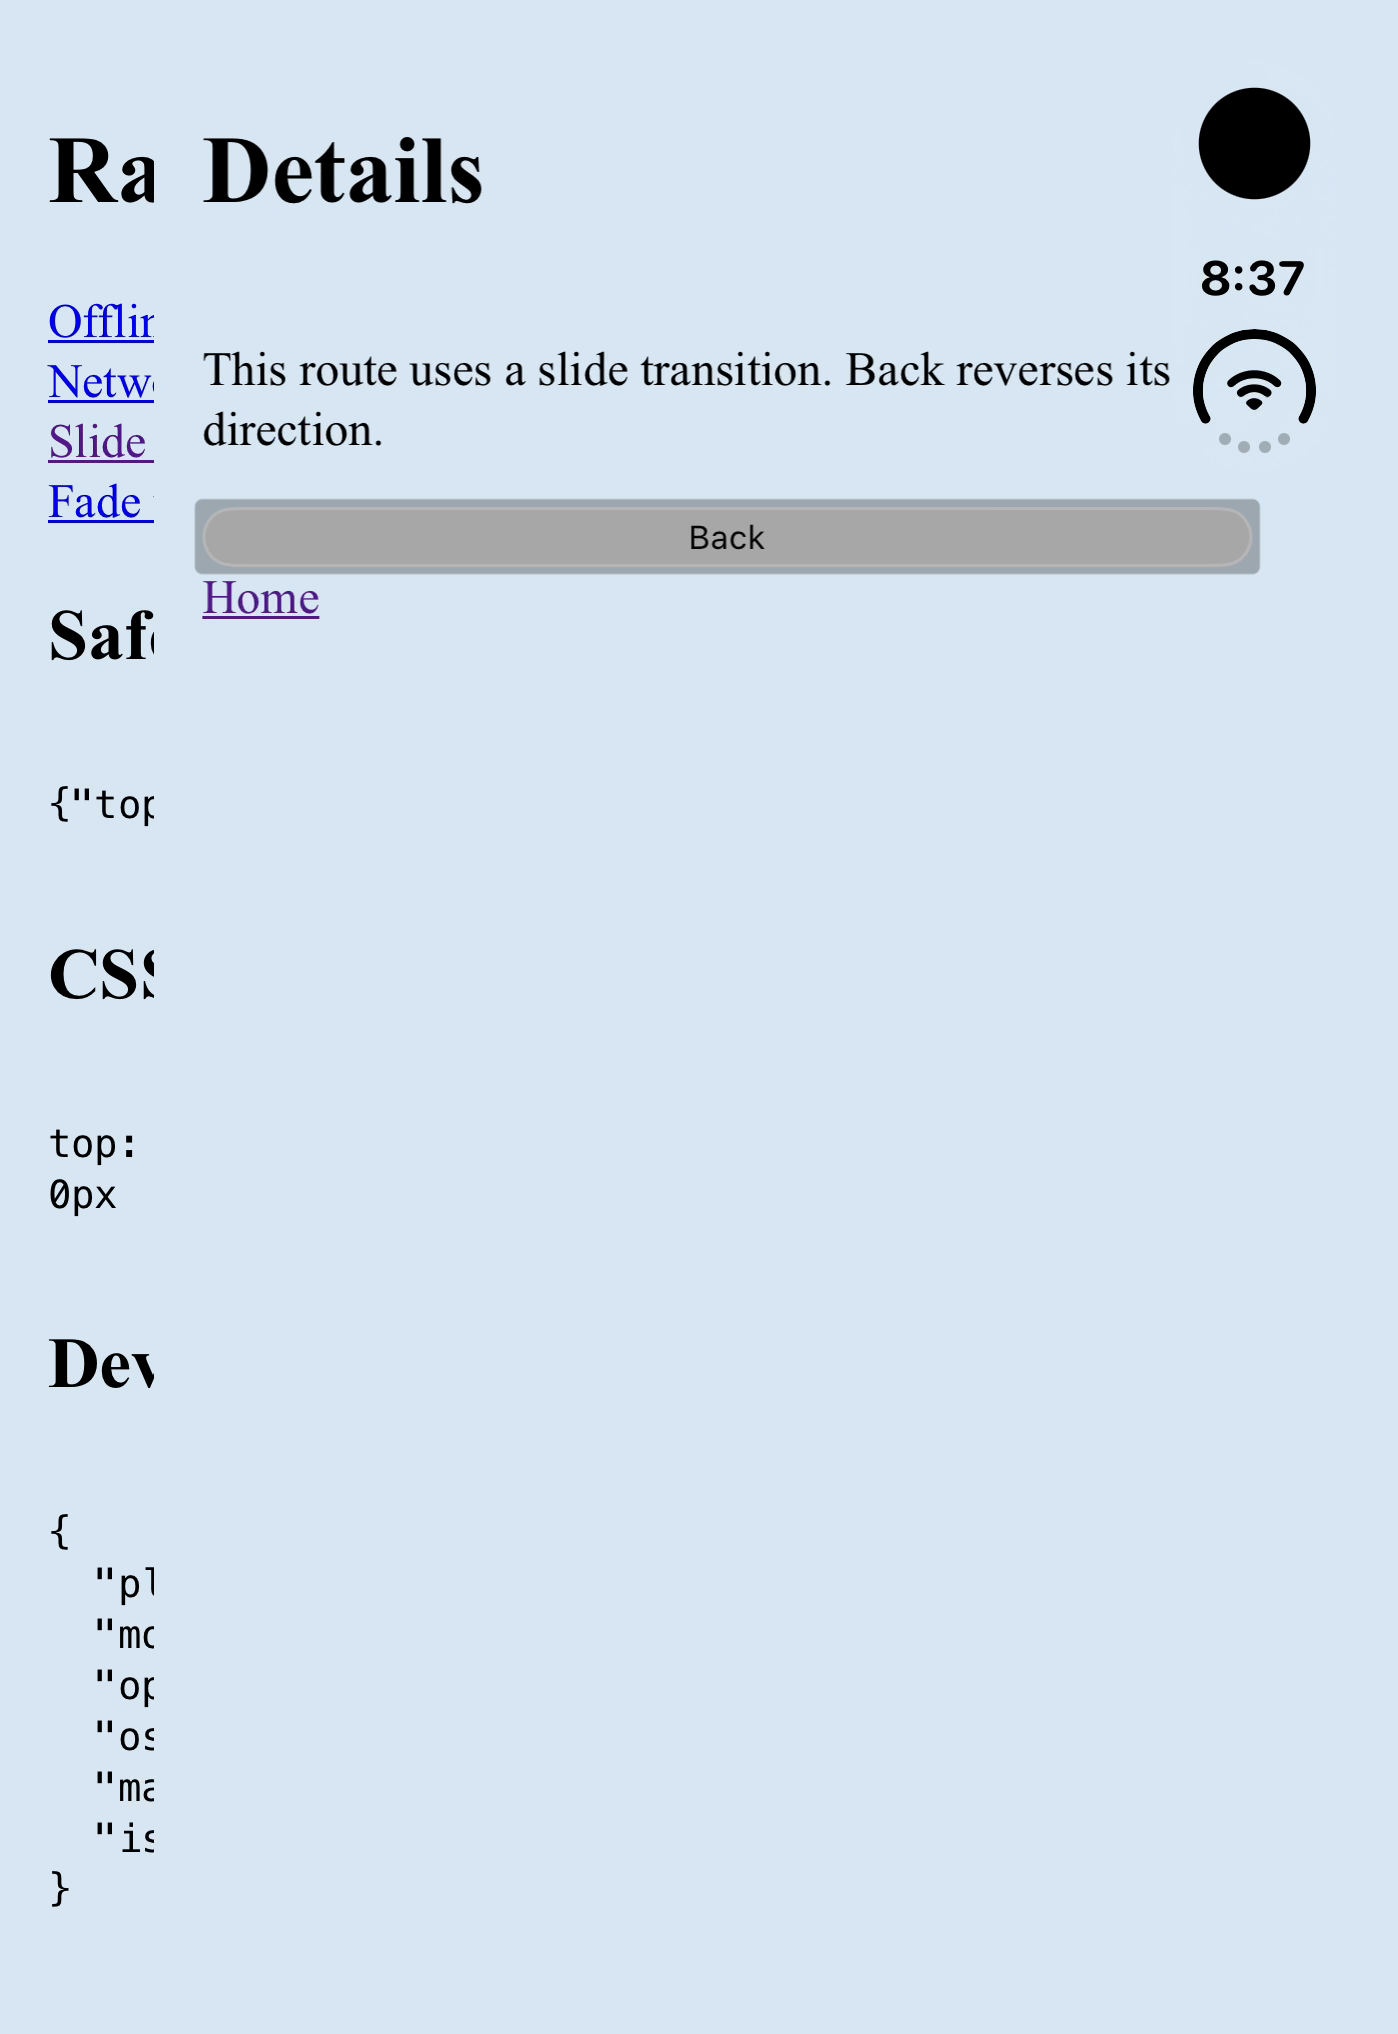
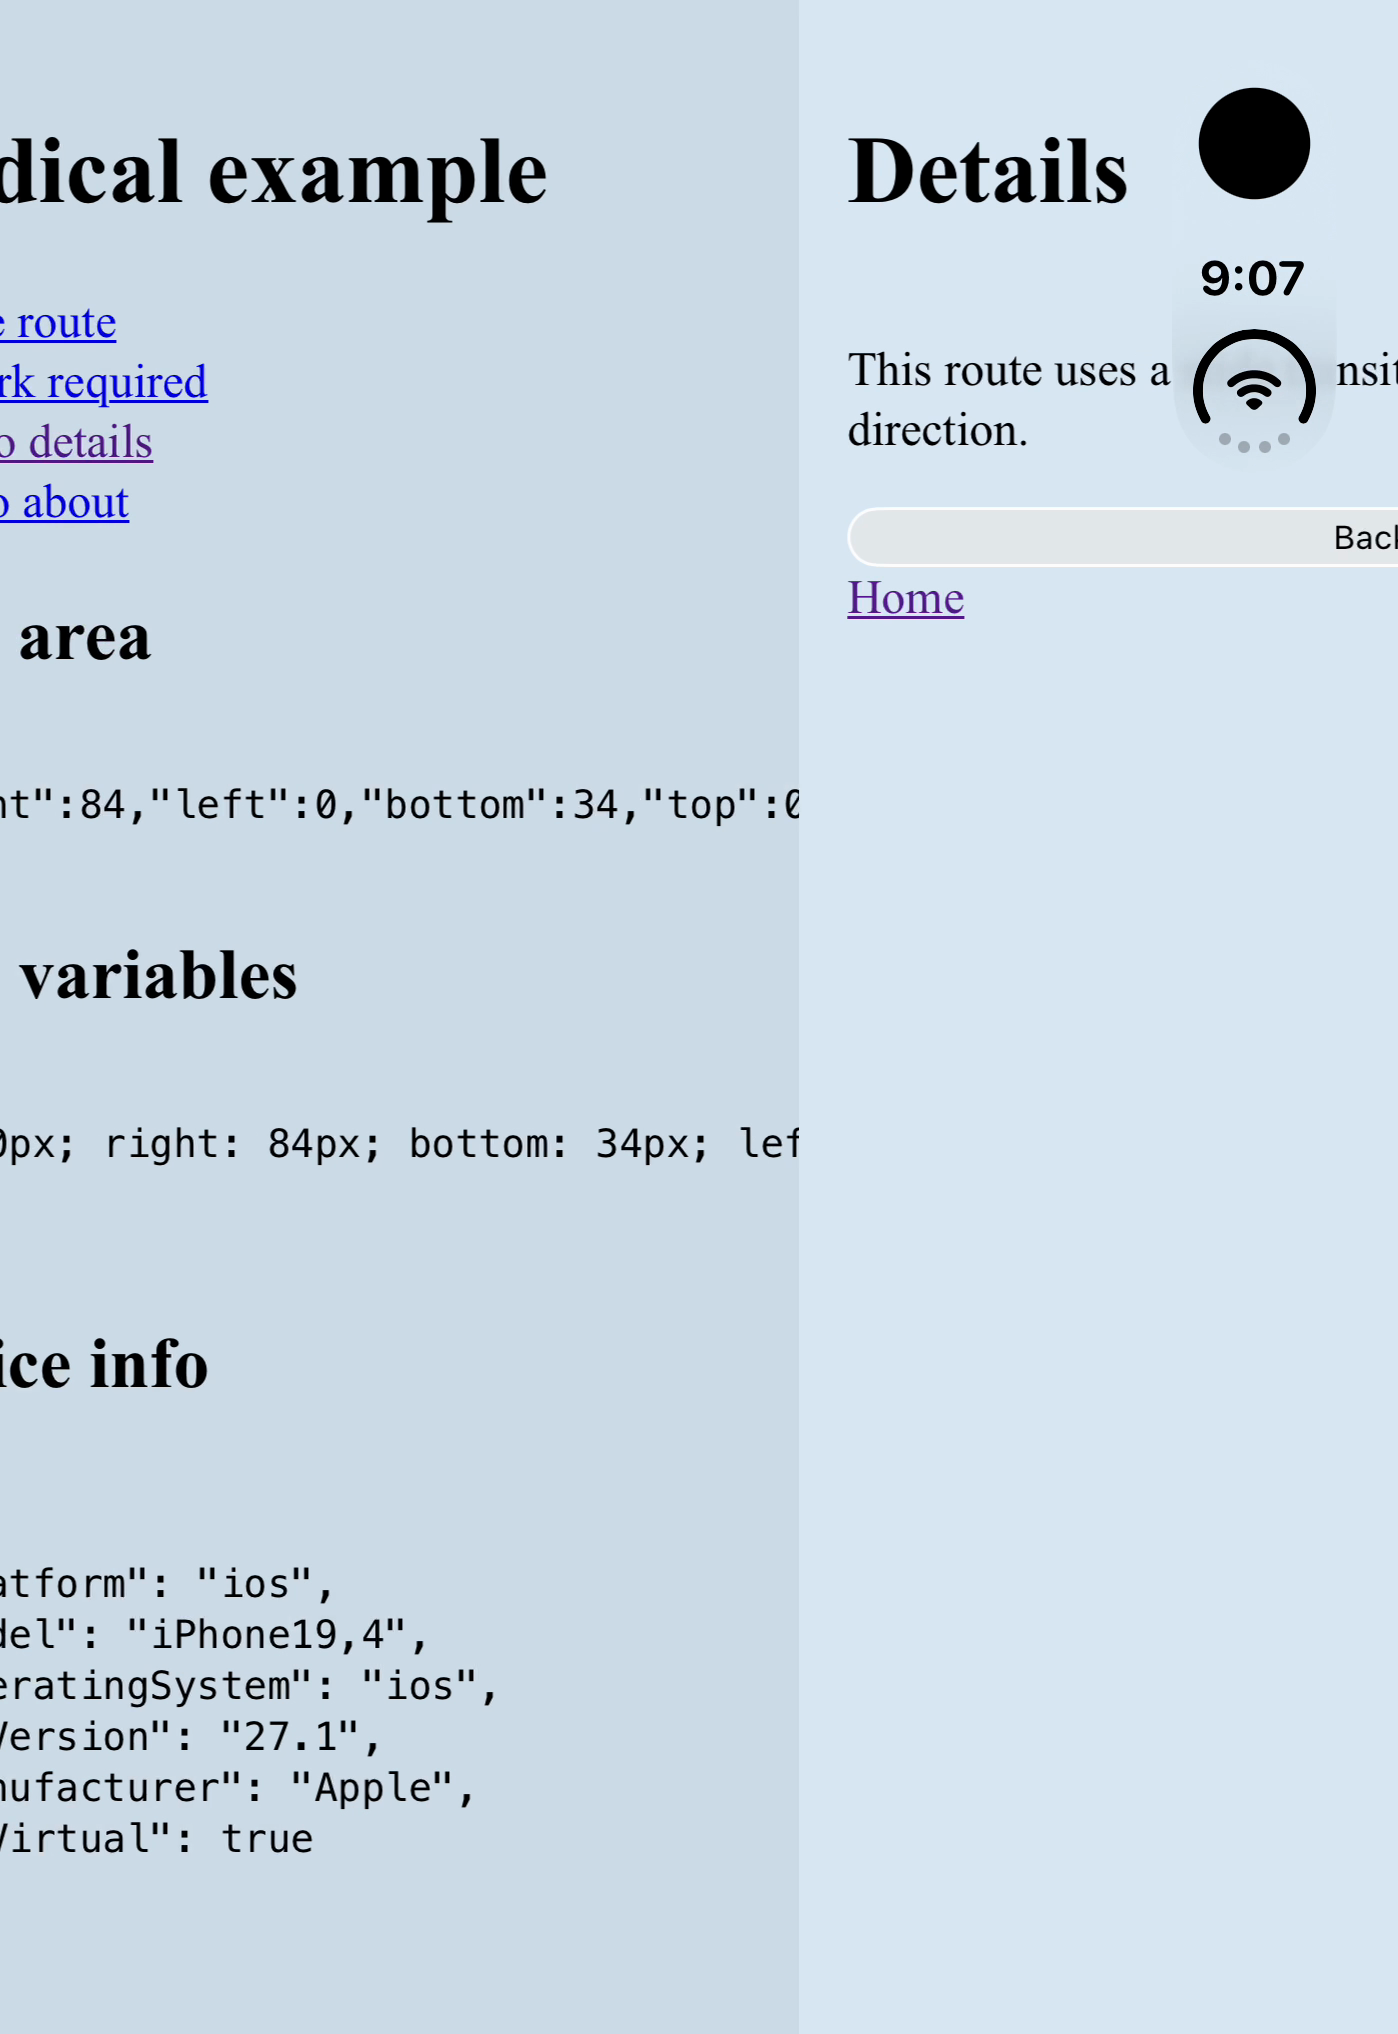
Verify iOS native push transitions

diff --git a/docs/verification/native-transitions.md b/docs/verification/native-transitions.md
@@ -1,6 +1,6 @@
 # Native snapshot transitions verification
 
-Android push, back, fade, and forced-timeout recovery were verified on 2026-10-20 on Pixel_9, Android 16, API 36, serial `emulator-5554`. The user supplied the already-booted emulator. The iOS simulator stayed shut down throughout this round. The revised iOS shell compiles for a generic simulator destination, but items 1 and 4 of the PR review require iOS device re-verification after a device swap.
+Verified on 2026-10-20 on Pixel_9, Android 16, API 36, serial `emulator-5554`, and iPhone Duo, iOS 27.1, UDID `88BEE7A3-757E-40C4-A789-5E3259B6B673`. The user supplied one booted device at a time. Android verification preceded the iOS re-verification at `0e4634b`. The iOS round found no runtime defect and updates only verification evidence. Android stayed shut down during that round.
 
 ## Android setup
 
@@ -57,24 +57,46 @@ Restored the original bridge method after the probe. Native process-death watchd
 
 Each shell acknowledges cover only after attachment. Android attaches only after PixelCopy succeeds and checks the id again in its callback. JavaScript waits for the framework commit and two animation frames before reveal. Android then waits for Chromium's visual-state callback; iOS waits for a WebKit snapshot of the committed content. Offset setup and layer reordering happen in one native callback before the next presented frame. Cleanup cancels motion and resets live content to zero before removing the snapshot.
 
-## iOS status after review
+## iOS re-verification at 0e4634b
 
-The original iPhone Duo evidence below was captured at `d69eb99`. Its slide moved only the outgoing snapshot. It does not verify the revised push, parallax, dimming, or transform cleanup.
-
-![Earlier iOS slide, superseded by the push implementation](native-transitions/ios-slide.png)
-
-![Earlier iOS back slide](native-transitions/ios-back.png)
-
-![Earlier iOS fade](native-transitions/ios-fade.png)
-
-The current shell removes the added `allowsBackForwardNavigationGestures = true` setting, preserving the previous disabled behavior. It uses forward push and reversed back motion with 30% parallax. The background page dims by 12% during iOS pushes. Both the animation changes in review item 1 and the gesture revert in item 4 require iOS device re-verification. The user must swap devices before that work; the simulator was not booted in this round.
-
-Compilation passed with the generated project and no simulator launch:
+Built radical, started the example at localhost port 4173, and generated, built, installed, and launched the clean head shell:
 
 ```sh
-xcodebuild -project ios/App/App.xcodeproj -scheme App -configuration Debug -sdk iphonesimulator -destination 'generic/platform=iOS Simulator' -derivedDataPath build build
+pnpm --filter radical run build
+pnpm --filter @radical/example exec vp dev --host 0.0.0.0 --port 4173
+pnpm --filter @radical/example exec radical ios --target 88BEE7A3-757E-40C4-A789-5E3259B6B673
 ```
+
+All interactions used the supplied agent-device executable, iOS UDID, host config, and session flags. Recorded with `xcrun simctl io 88BEE7A3-757E-40C4-A789-5E3259B6B673 recordVideo --codec=h264`. Normal motion recordings are `/tmp/radical-ios-push-0e4634b.mov` and `/tmp/radical-ios-fade-0e4634b.mov`. These replace the earlier outgoing-only slide evidence.
+
+![iOS forward push, with dimmed Home shifting left behind incoming Details](native-transitions/ios-slide.png)
+
+![iOS reversed back slide, with Home returning from parallax under outgoing Details](native-transitions/ios-back.png)
+
+![iOS Home snapshot fading over About](native-transitions/ios-fade.png)
+
+Forward slide moves Details in from the right while Home shifts left by the configured 30% parallax and darkens. The mid-slide still shows a dimmed Home background beside the brighter incoming page. Button Back moves Details out to the right while Home returns from its negative parallax offset and undims. Fade smoothly replaces Home with About. All destinations settled with the live content at its normal position.
+
+Reviewed every encoded frame from 8.60 to 9.30 seconds for forward slide and 24.30 to 25.20 for Back in the push recording, plus 10.55 to 11.10 in the fade recording. These windows include capture, initial offsets and stacking, motion, and final cleanup. No blank, white, or black frame appeared. The old and new pages meet without an exposed window background, including the right-side system area. Recordings have variable frame timing; the review covers encoded frames rather than unrecorded sub-frame behavior.
+
+### iOS forced reveal timeout
+
+For this probe only, added a document-end user script and trace logging to the ignored generated AppDelegate.swift. The script wraps `Capacitor.nativePromise` and returns a never-settling promise for the first `RadicalTransitions.reveal`; cover and remove still call the real native plugin. The library and native transition implementation remain the head versions. Launched the probe with `simctl launch --console-pty` to capture its trace at `/tmp/radical-ios-probe-console.log`.
+
+The trace shows cover at 18589 ms, attachment acknowledgement at 18597 ms with the Home heading, stalled reveal at 18616 ms after the heading became Details, remove at 19603 ms, and removal acknowledgement at 19605 ms. Native logging reports `overlayAttached=false` after removal. Cleanup completed about one second after capture, before the three-second native watchdog. The route and heading remained Details.
+
+Recorded `/tmp/radical-ios-timeout-0e4634b-final.mov`. Source frame 11 at 10.750000 seconds shows the Home snapshot held over the already-committed destination; source frame 12 at 11.673333 seconds shows Details after removal. Extracted those exact source indices to avoid seeking across a held frame. Reviewed every encoded frame between 10.50 and 12.00 seconds, including both sides of removal. No blank frame appeared.
+
+![iOS Home snapshot remains while reveal is stalled and Details has committed underneath](native-transitions/ios-timeout-covered.png)
+
+![iOS Details remains visible after timeout removes the snapshot](native-transitions/ios-timeout-revealed.png)
+
+### iOS swipe-back is disabled
+
+The probe logs `swipeEnabled=false canGoBack=true` on the live WKWebView after the Details history entry exists. In the clean shell, an agent-device `gesture swipe left-edge` on Details leaves the route and screen unchanged; button Back then returns to Home. Repeated the edge swipe after removing the probe and reinstalling the clean head shell, with the same result. No competing WebKit history swipe was enabled.
+
+Regenerated the shell to remove all probe code, rebuilt, installed, and launched the clean version again. Confirmed no `RADICAL_VERIFY` code remains in the generated AppDelegate.swift. Repeated slide, disabled edge swipe, and button Back on that clean installation. Review items 1 and 4 now have iOS device verification. Native process-death watchdog recovery remains unexercised.
 
 ## Repository checks and cleanup
 
-`pnpm exec ultracite fix`, `pnpm exec ultracite check`, `pnpm run ready`, and `pnpm install --frozen-lockfile` pass. Ready includes 127 passing tests. The lockfile is unchanged and contains no `@pnpm/exe` entry. The example server and Gradle are stopped after verification. Pixel_9 remains booted.
+`pnpm exec ultracite fix`, `pnpm exec ultracite check`, `pnpm run ready`, and `pnpm install --frozen-lockfile` pass. Ready includes 127 passing tests. The lockfile is unchanged and contains no `@pnpm/exe` entry. The example server and Gradle are stopped after verification. Pixel_9 is shut down. The clean iOS shell is installed and iPhone Duo remains booted.

diff --git a/packages/radical/docs/transitions.md b/packages/radical/docs/transitions.md
@@ -58,4 +58,4 @@ History `BACK` and negative `GO` reverse slide direction, including Android syst
 
 `cancel()` removes the current native overlay without interrupting the router commit. `dispose()` also restores the original router hook and removes history listeners. Concurrent commits serialize their overlays so an earlier cleanup cannot uncover a later capture. Browser cancellation and CSS duration behavior remain unchanged.
 
-See [native verification](../../../docs/verification/native-transitions.md) for Android device evidence and the pending iOS re-verification.
+See [native verification](../../../docs/verification/native-transitions.md) for Android and iOS device recordings, stills, and timeout recovery evidence.
